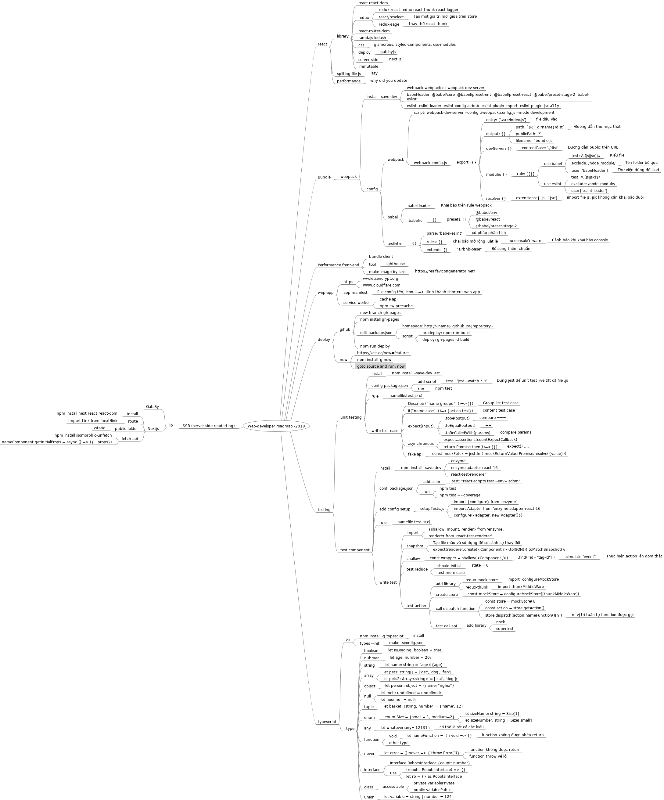
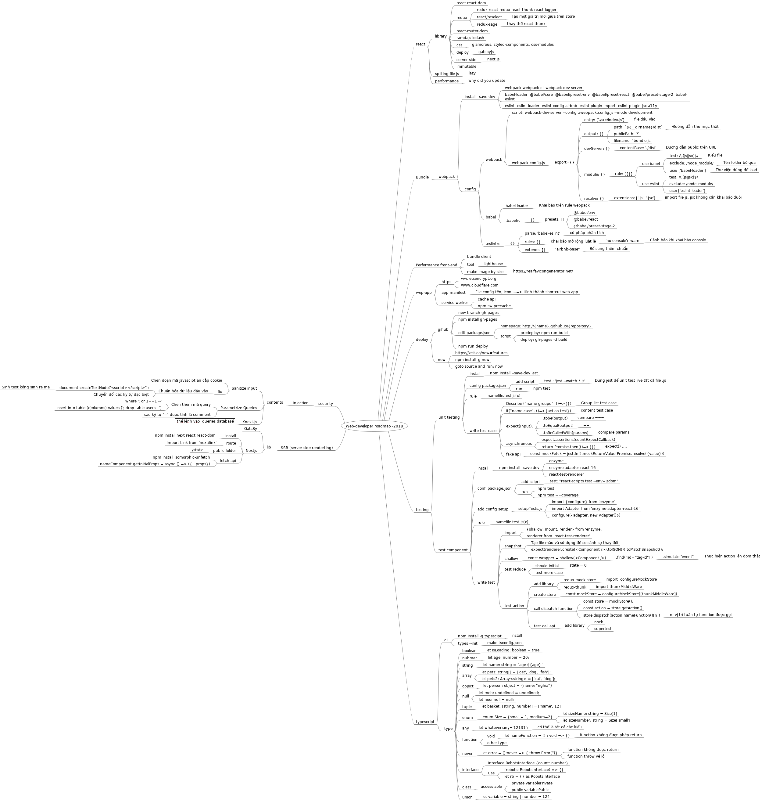
update web-roammap security injection

diff --git a/website/Web-developer roadmap -2018.mm b/website/Web-developer roadmap -2018.mm
@@ -370,6 +370,33 @@
 </node>
 </node>
 </node>
+<node CREATED="1565540132035" ID="ID_1370828360" MODIFIED="1565540147984" POSITION="left" TEXT="security">
+<node CREATED="1565540148976" ID="ID_942155310" MODIFIED="1565540158509" TEXT="Injection">
+<node CREATED="1565540159349" ID="ID_1820137061" MODIFIED="1565540652465" TEXT="contents">
+<node CREATED="1565540168064" ID="ID_1539795012" MODIFIED="1565540177443" TEXT="Sanitize input">
+<node CREATED="1565540227551" ID="ID_1184528008" MODIFIED="1565540283582" TEXT="Ch&#xe8;n &#x111;o&#x1ea1;n m&#xe3; javascipt &#x103;n c&#x1eaf;p cookie"/>
+<node CREATED="1565540200546" ID="ID_798769520" MODIFIED="1565540226769" TEXT="fix">
+<node CREATED="1565540292153" ID="ID_1500646188" MODIFIED="1565540358960" TEXT="Chu&#x1ea9;n h&#xf3;a d&#x1eef; li&#x1ec7;u &#x111;&#x1ea7;u v&#xe0;o">
+<node CREATED="1565540307550" ID="ID_1047934118" MODIFIED="1565540355717" TEXT="document.createTextNode(&apos;&lt;script&gt;&lt;/script&gt;&apos;);">
+<node CREATED="1565540339064" ID="ID_1625489916" MODIFIED="1565540351700" TEXT="Sinh text k&#xf4;ng sinh ra m&#xe3;"/>
+</node>
+<node CREATED="1565540361265" ID="ID_156553234" MODIFIED="1565540389590" TEXT="Chuy&#x1ec3;n &#x111;&#x1ed5;i c&#xe1;c k&#xfd; t&#x1ef1; &#x111;&#x1eb7;c bi&#x1ec7;t"/>
+</node>
+</node>
+</node>
+<node CREATED="1565540177695" ID="ID_1689697003" MODIFIED="1565540196529" TEXT="Parametrize Queries">
+<node CREATED="1565540394178" ID="ID_1561680635" MODIFIED="1565540480894" TEXT="Ch&#xe8;n th&#xea;m m&#xe3; query">
+<node CREATED="1565540399763" ID="ID_745136839" MODIFIED="1565540524012" TEXT="where &apos;; or 1==1 --&apos;"/>
+<node CREATED="1565540525546" ID="ID_1204052705" MODIFIED="1565540581820" TEXT="insert into table (c)olumns) values (&apos;; drop table users --&apos;)"/>
+</node>
+<node CREATED="1565540600966" ID="ID_1194537801" MODIFIED="1565540625485" TEXT="sau k&#xfd; t&#x1ef1; &quot;--&quot; &#x111;&#x1b0;&#x1ee3;c t&#xed;nh l&#xe0; comment"/>
+</node>
+<node CREATED="1565540626755" ID="ID_1103529483" MODIFIED="1565540659640" TEXT="Knext.js">
+<node CREATED="1565540664729" ID="ID_1680366911" MODIFIED="1565540745584" TEXT="Kh&#xf4;ng th&#x1ec3; l&#x1ec7;nh v&#xe0;o databasee"/>
+</node>
+</node>
+</node>
+</node>
 <node CREATED="1565405749119" ID="ID_1165777626" MODIFIED="1565511053746" POSITION="left" TEXT="SSR (server side renderting)">
 <node CREATED="1565405807316" ID="ID_537246765" MODIFIED="1565405820376" TEXT="lib">
 <node CREATED="1565405823298" ID="ID_1213719044" MODIFIED="1565405835951" TEXT="GatsBy"/>
